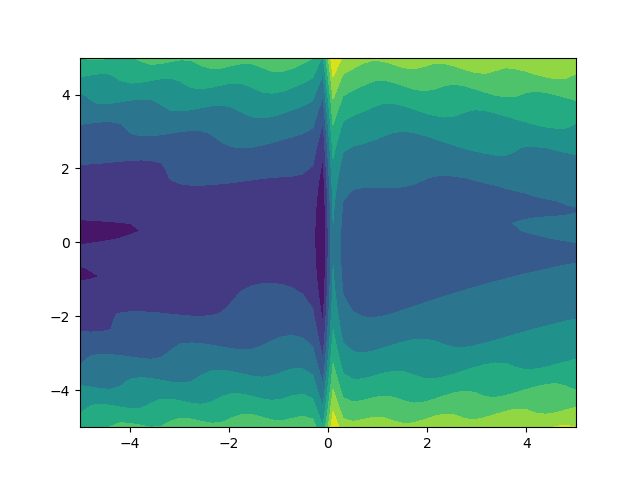
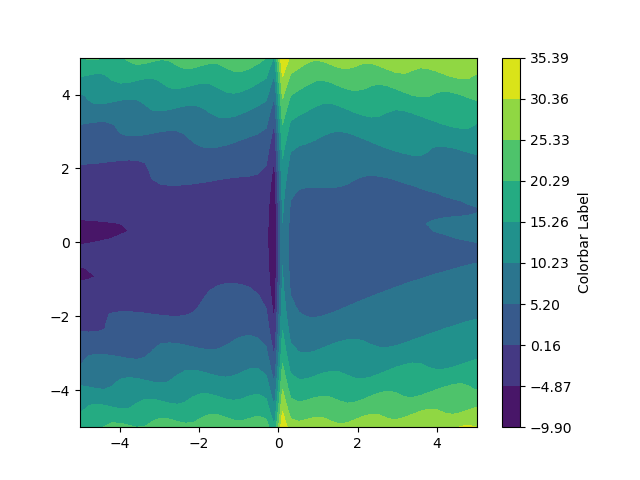
Finish plot types section and add colormaps section

diff --git a/docs/workshops/matplotlib/plot_types.md b/docs/workshops/matplotlib/plot_types.md
@@ -27,7 +27,7 @@ ax.scatter(x, y, s=sizes, c=colors)
 
 This takes the standard x- and y-coordinates, but you also have some extra control on the sizes of the points, as well as the colors of the points. So, you could set points to be larger and more colored depending on the underlying data.
 
-Here's an example script that uses the `ax.scatter()` function:
+Here is an example script that uses the `ax.scatter()` function:
 
 ```
 import numpy as np
@@ -56,6 +56,10 @@ When we run the script, it should generate something that looks like this:
 
 ## Bar Charts
 
+MatPlotLib also has the ability to do bar charts. The following three scripts show different ways to utilize the bar chart function.
+
+This first one is a typical bar chart: it has a list of names and a list of values. The `ax.bar()` function takes those two lists and creates a bar chart out of them. The names could be any strings, and the values could be any number.
+
 ```
 import numpy as np
 import matplotlib.pyplot as plt
@@ -64,15 +68,16 @@ data = {'Apple': 10, 'Orange': 15, 'Lemon': 5, 'Lime': 20}
 names = list(data.keys())
 values = list(data.values())
 
-fig = plt.figure()
-ax = plt.axes()
+fig, ax = plt.subplots()
 
-ax.bar(names, values);
+ax.bar(names, values)
 
 plt.show()
 ```
 ![An image showing a bar chart, with x-axis labels of Apple, Orange, Lemon, and Lime.](./_static/Simple_bar.png "Simple Bar Chart")
 
+This next script is the exact same as the previous one, with the exception of the actual bar chart function. This time we use `ax.barh()` (notice the 'h' in there), which rotates the bar chart by 90 degrees and makes it a horizontal bar chart.
+
 ```
 import numpy as np
 import matplotlib.pyplot as plt
@@ -81,14 +86,15 @@ data = {'Apple': 10, 'Orange': 15, 'Lemon': 5, 'Lime': 20}
 names = list(data.keys())
 values = list(data.values())
 
-fig = plt.figure()
-ax = plt.axes()
+fig, ax = plt.subplots()
 
-ax.barh(names, values);
+ax.barh(names, values)
 
 plt.show()
 ```
 ![An image showing a horizontal bar chart, with y-axis labels of Apple, Orange, Lemon, and Lime.](./_static/Horiz_bar.png "Horizontal Bar Chart")
+
+Lastly, we can also do grouped bar charts, by explicitly specifying the x-locations for each of the bars. So here, we have two `ax.bar()` invocations, on for the left bars of each group (the group labeled 'Men') and one for the right bars of each group (the group labeled 'Women'). We could do the same thing horizontally by just changing the bar chart invocations to `ax.barh()` and not changing anything else.
 
 ```
 import numpy as np
@@ -112,6 +118,15 @@ plt.show()
 
 ## Fill Between
 
+At times, we may want to create a figure that has an area shaded around a line, or some other feature. We can do this with the `ax.fill_between()` function. It takes as input a list of x-values and then two lists of y-values, one for the bottom of the area and one for the top of the area. In the script below we create two random lines, and then in the figure, shade the area between the two. We also add a line that is halfway between the shaded area.
+
+This script also introduces two new options that we can specify to plots:
+
+- Alpha
+- Linewidth
+
+Alpha controls how transparent the object is and ranges from 0 (completely transparent) to 1 (completely opaque). Linewidth controls the width of the plotted line. In the `fill_between()` invocation, we set the line width to be 0 to get rid of any lines it may plot and just have the filled area shown. In the `plot()` invocation afterwards, we set the linewidth to 2 so that it is a thicker line.
+
 ```
 import numpy as np
 import matplotlib.pyplot as plt
@@ -132,7 +147,13 @@ plt.show()
 ```
 ![An image showing a plot with an area that is filled, with a line in the middle of the area.](./_static/Fill_between.png "Fill Between Plot")
 
+!!! note "Notice"
+
+    This script also introduces layering. In MatPlotLib, plotted objects are layered on top of one another. See what changes with the figure if you change the order of the `fill_between()` and the `plot()` functions. There are ways to set or modify the order in which things are plotted on the figure, but that is beyond the scope of this workshop. If interested, search for 'matplotlib zorder'.
+
 ## Histograms
+
+MatPlotLib can also do histograms with its `ax.hist()` function. It takes a list of numbers and plots the frequency of each number in a specified number of bins. In the following script, we use NumPy's random normal distribution to create a plot that is more interesting to see than a rectangle. In the `ax.hist()` command, we pass the list of numbers we want the distribution of. Then, we specify the number of bins we want to display. Next is the line width that we discussed earlier, which affects the outline of each of the bins. Lastly, we specify the edge color, which is the color of the line that surrounds each bin.
 
 ```
 import numpy as np
@@ -152,6 +173,8 @@ plt.show()
 
 ## Error Bars
 
+At times, you may want to have error bars around your data points. To do this in a plot, we can use the `ax.errorbar()` function. It takes three inputs to make `ax.errorbar()` work: the first two are the x-y coordinates of your data points, then the last input is the ± error on each of those points in the y-direction. We additionally specify some options to make the plot look nicer. By default, the points of an `ax.errorbar()` figure are connected by a line. If we set the format option (`fmt`) to be `'o'` this will stop it from plotting lines, and instead plot each point by itself, like a scatter plot instead. Next is the line width, which affects the width of the error bars. Lastly we set the cap size, which is the size of the caps on the top and bottom of the error bars.
+
 ```
 import numpy as np
 import matplotlib.pyplot as plt
@@ -170,7 +193,43 @@ plt.show()
 ```
 ![An image showing a plot that has points forming a sinusoidal line, with error bars in the y-direction on each point of varying sizes.](./_static/Error_bars.png "Plot with Error Bars")
 
+!!! note "Information"
+
+    If your data needs error bars in the x-direction, you can specify the list of x-errors after the `yerr` entry. So the invocation would look like this: `ax.errorbar(x, y, yerr, xerr, OPTIONS)`.
+
 ## 2-D Pixel Maps
+
+What if we want to plot a heat map? There are two main ways to do so:
+
+- Imshow
+- Pcolormesh
+
+Imshow is much faster than Pcolormesh, but it also has more limitations. Imshow treats every data point like a pixel, and each pixel is the same size; it assumes a uniform, regular grid of points as an input. In the following script, we use a new NumPy function: `np.meshgrid()`. It takes at least two 1D NumPy arrays (vectors) and creates N, N-D matrix of points that correspond to the input vectors. In this case, we want to generate two matrices that correspond to the x- and y-directions. So, if we had two vectors: `[1,2]` (x) and `[3,4]` (y), and we called `np.meshgrid(x,y)` on them, it would give us two matrices as output:
+
+`X`:
+<table>
+  <tr>
+    <th> 1 </th>
+    <th> 2 </th>
+  </tr>
+  <tr>
+    <th> 1 </th>
+    <th> 2 </th>
+  </tr>
+</table>
+`Y`:
+<table>
+  <tr>
+    <th> 3 </th>
+    <th> 3 </th>
+  </tr>
+  <tr>
+    <th> 4 </th>
+    <th> 4 </th>
+  </tr>
+</table>
+
+We can then do mathematical operations on those matrices and get a N-D matrix back.
 
 ```
 import matplotlib.pyplot as plt
@@ -188,6 +247,14 @@ ax.imshow(Z, origin='lower')
 plt.show()
 ```
 ![An image showing a heat map of data that goes from dark blue to yellow. The x- and y-axes range from 0 to 17.5.](./_static/Imshow_plot.png "Imshow Plot")
+
+In the previous script, we didn't pass the `X` and `Y` matrices to the `ax.imshow()` function, because it does not use them. We did pass an option `origin` that specifies where the matrix should start. By default, the data point at index `[0,0]` is plotted at the top left, and the last data point is the bottom right. If we pass `'lower'` to the `origin` option, this says that the index `[0,0]` is plotted at the bottom left, and the last data point is the top right.
+
+Also notice that the bounds of our data are from -5 to 5, but that the figure does not reflect that. It takes the number of data points as pixels as the x- and y-coordinates. We can however pass the `extent` option to `ax.imshow()` to specify the bounds of the data. That takes the form of `extent=[left, right, bottom, top]`, so in our case it would be `extent=[-5, 5, -5, 5]`.
+
+Imshow can also use different interpolation methods to smooth the data to make it look less pixelated. Something that we do not get into in the workshop.
+
+The next script uses Pcolormesh, which is slower, but can handle non-uniform grids. Pcolormesh takes the same Z data matrix made from NumPy's `meshgrid()` function, but it also requires the X and Y matrices to specify where the points are. Notice that the x-vector is made from ascending random numbers, so that it is not uniformly distributed.
 
 ```
 import matplotlib.pyplot as plt
@@ -211,6 +278,15 @@ plt.show()
 
 ## Contour Plots
 
+At times, we may want to show contours on our heat maps, to show the different levels of 2-dimensional data. There are two main ways to do this:
+
+- `ax.contour()`
+- `ax.contourf()`
+
+These both create contour plots, but `ax.contourf()` fills the contour levels, whereas `ax.contour()` leaves the space between contours empty.
+
+They both take three necessary inputs: 2D X- and Y- coordinate matrices, as well as a 2D data matrix that contains the 'height' of each x-y coordinate pair. There is one important option that you may consider adding to the contour invocation: `levels`, which controls where (and how many) contour levels there are. In the following scripts, we set a variable `levels` to be an evenly-spaced array of 10 values that span from the data minimum to the data maximum. Thus, our contour plots will have 10 contour levels that are evenly spaced throughout the data. You could also do a logarithmic set of levels, or something completely different.
+
 ```
 import matplotlib.pyplot as plt
 import numpy as np
@@ -230,6 +306,8 @@ plt.show()
 ```
 ![An image showing a contour plot that goes from dark blue at lowest to yellow at highest.](./_static/Contour_plot.png "Contour Plot")
 
+In the next script, which uses the filled contour plot invocation, we add a couple of extra lines to create a color bar, showing the value of each contour level. To do this, we need to save the `ax.contourf()` invocation into a variable, so the color bar knows which plot to use for its values. Then, we add a color bar to the figure with the `fig.colorbar()` function. It takes the `contourf` variable that we just set, and we assign the color bar we just created to be its own variable. We can then manipulate the variable and do things like set the color bar label to whatever we want.
+
 ```
 import matplotlib.pyplot as plt
 import numpy as np
@@ -243,13 +321,18 @@ levels = np.linspace(Z.min(),Z.max(),10)
 
 fig, ax = plt.subplots()
 
-ax.contourf(X,Y,Z, levels=levels)
+cfax = ax.contourf(X,Y,Z, levels=levels)
+
+cbar = fig.colorbar(cfax)
+cbar.set_label('Colorbar Label')
 
 plt.show()
 ```
-![An image showing a filled contour plot that goes from dark blue at lowest to yellow at highest.](./_static/Contourf_plot.png "Filled Contour Plot")
+![An image showing a filled contour plot that goes from dark blue at lowest to yellow at highest. On the right side there is also a color bar that shows the values at each contour level, which is labeled "Colorbar Label".](./_static/Contourf_plot.png "Filled Contour Plot")
 
 ## Quiver Plots
+
+What if we want to show a 2D vector field? We can create a quiver plot to show the direction and magnitude of a field at predefined points. To do this, we use the `ax.quiver()` function that takes four 2D matrices as input. The first two are the 2D X- and Y-coordinate matrices, then the next two are the 2D X- and Y-velocity matrices, that show where the arrows should point and with what length. There are many options to modify the behavior of the quiver plot, such as changing the scaling of the arrows, which you can look at here: [MatPlotLib quiver plot reference](https://matplotlib.org/stable/api/_as_gen/matplotlib.axes.Axes.quiver.html#matplotlib.axes.Axes.quiver)
 
 ```
 import matplotlib.pyplot as plt
@@ -271,6 +354,8 @@ plt.show()
 
 ## Stream Plots
 
+Another way of showing a 2D vector field is with a stream plot. This is achieved with the `ax.streamplot()` function, the invocation of which is similar to that of `ax.quiver()`. It takes the same four inputs, but it creates arrow streams that show the path a particle would take if it started on a stream line.
+
 ```
 import matplotlib.pyplot as plt
 import numpy as np
@@ -290,6 +375,8 @@ plt.show()
 ![An image showing a stream plot with long arrows that point initially away from the center in the x-direction and then bend away from the x-axis in the y-direction.](./_static/Stream_plot.png "Stream Plot")
 
 ## Irregular Contour Plots
+
+The last type of plot we show in this section is a different kind of contour plot. It is meant for when you have data that you want contours of, but the data is laid out in an irregular manner. It uses triangulation to determine where the contours should go based on the irregularly-spaced data. In the following script, we create two 1-dimensional vectors that contain x- and y-coordinates for our data. We then evaluate our function at each of those points. The contour levels are evenly spaced between the extent of the data (using `np.linspace`). Lastly, we use two plot types: `scatter` and `tricontour` to first, show where our data points are, and second, to generate the actual contours.
 
 ```
 import matplotlib.pyplot as plt
@@ -313,6 +400,8 @@ plt.show()
 ```
 ![An image showing a contour plot that goes from dark blue at lowest to yellow at highest. The contour plot is overlaid on a scatter plot of data points showing that the data is coming from an irregular grid.](./_static/Tricontour_plot.png "Irregular Contour Plot")
 
-In the next section, we will discuss how to make a time-series of plots into an animation, such as a gif.
+Notice that the contour plot here is not as nice as the ones we [showed above](#contour-plots). This is because it does not have the same extent of data to work with, and the singularity at `x=0` throws things off here if data points get to close to 0.
 
-[Next section](animations.md){ .md-button .md-button--primary }
+In the next section, we will discuss different colormaps for our 2D data.
+
+[Next section](colormaps.md){ .md-button .md-button--primary }

diff --git a/docs/workshops/matplotlib/colormaps.md b/docs/workshops/matplotlib/colormaps.md
@@ -1,0 +1,10 @@
+# Color Maps and Accessibility
+[Back to main index](index.md){ .md-button }
+
+[Previous page](plot_types.md){ .md-button .md-button--primary }
+
+
+
+In the next section, we will discuss how to make a time-series of plots into an animation, such as a gif.
+
+[Next section](animations.md){ .md-button .md-button--primary }
